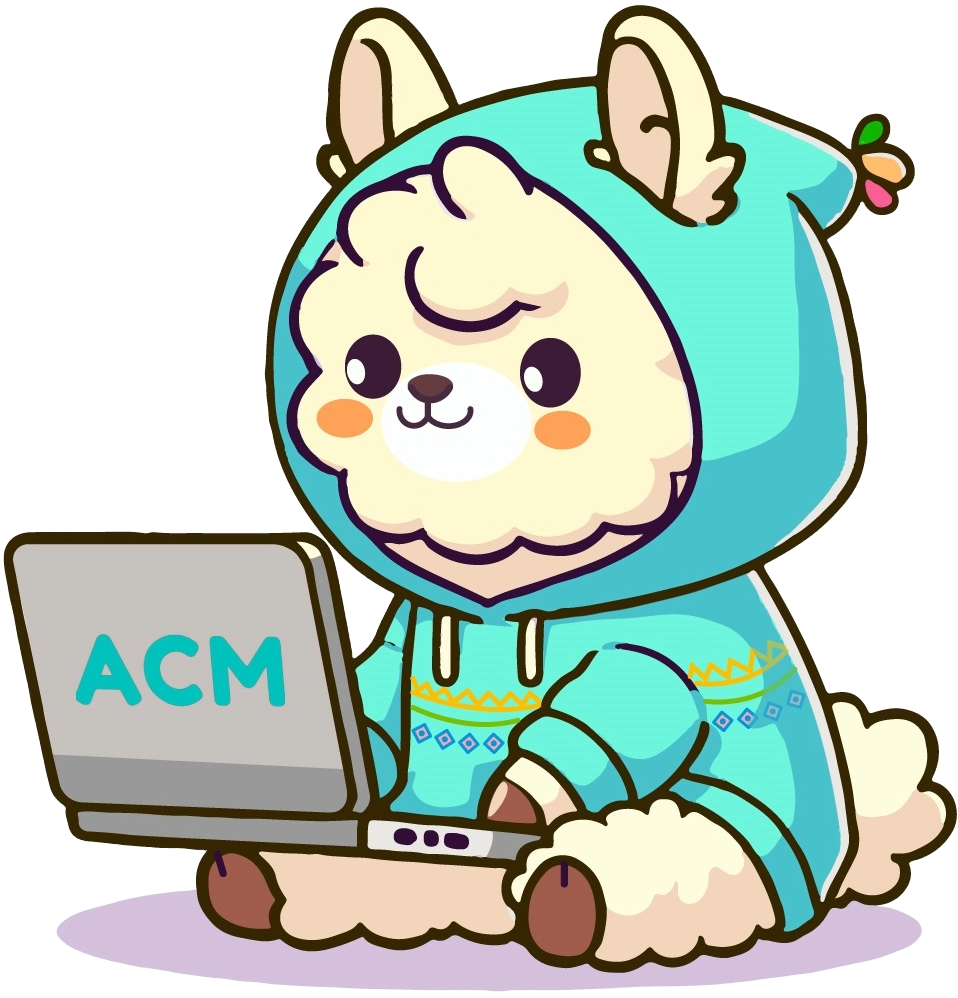
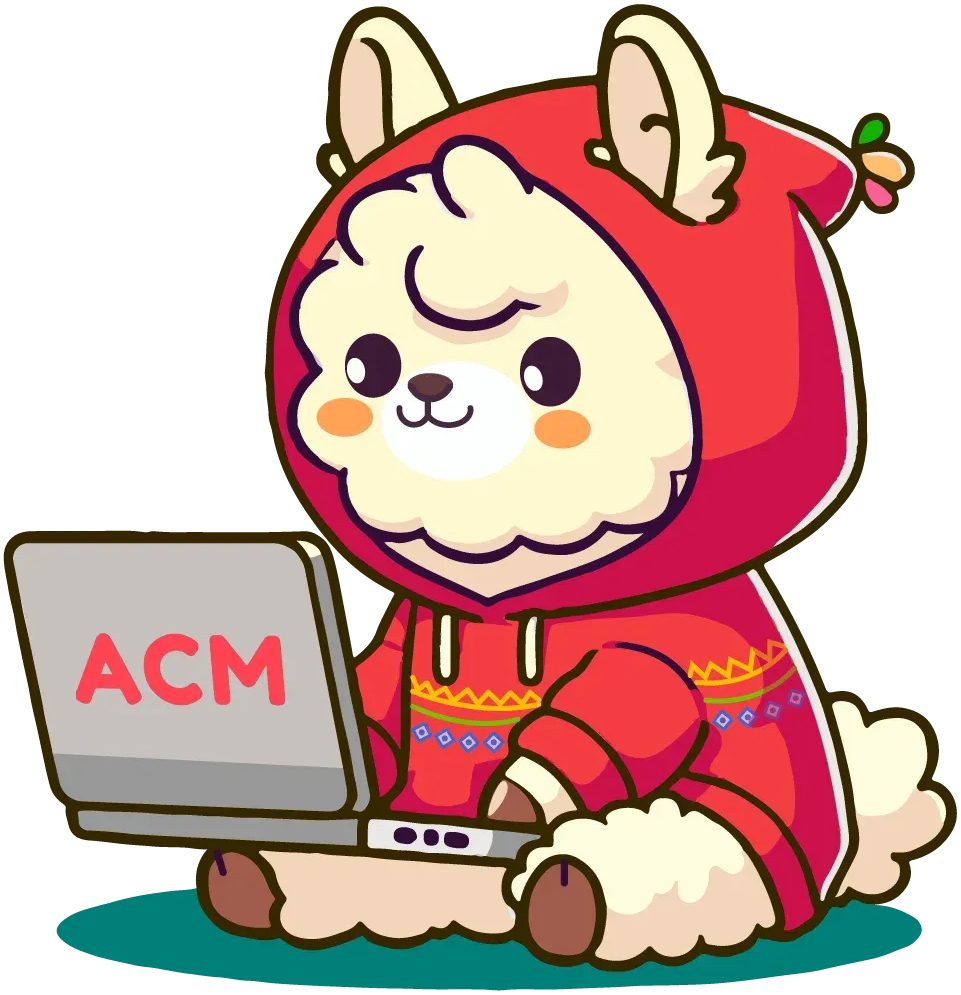
update and resize team icones

diff --git a/src/components/scoreboard/TableRow.css b/src/components/scoreboard/TableRow.css
@@ -33,7 +33,7 @@
   min-width: 5%;
   max-width: 5%;
   margin: 0;
-  height: 50px;
+  height: 63px;
   object-fit: contain;
 }
 
